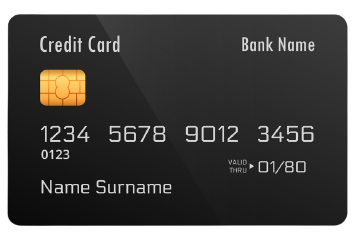
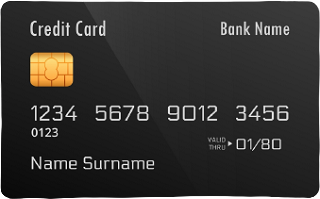
Added animations

diff --git a/src/components/TransactionPage.js b/src/components/TransactionPage.js
@@ -55,7 +55,7 @@ const TransactionPage = ({getExpenseReceived}) => {
         }}/>
 
         {/* Reflects the current payment method */}
-        <img src={transactionImages[currentPayMenthod].image} className='h-[30%] w-[30%] motion-reduce:'></img>
+        <img id='paymentImage' src={transactionImages[currentPayMenthod].image} className='h-[30%] w-[30%] hover:scale-110 ease-in-out duration-200'></img>
 
         {/* Move to next payment method if any */}
         <FiChevronRight size={30} className='mt-[8%] ml-[3%]' onClick={() => {

diff --git a/src/data.js b/src/data.js
@@ -11,6 +11,7 @@ import mastercard from './images/mastercard.png';
 import card3 from './images/card3.png'
 import card4 from './images/card4.png'
 import card5 from './images/card5.jpg'
+import card6 from './images/card6.png'
 
 export let navItems = [
     {
@@ -58,7 +59,7 @@ export let transactionHistory = [
 
 export let transactionImages = [
     {
-        image: card5,
+        image: card6,
         index: 1,
         selected: false
     },
